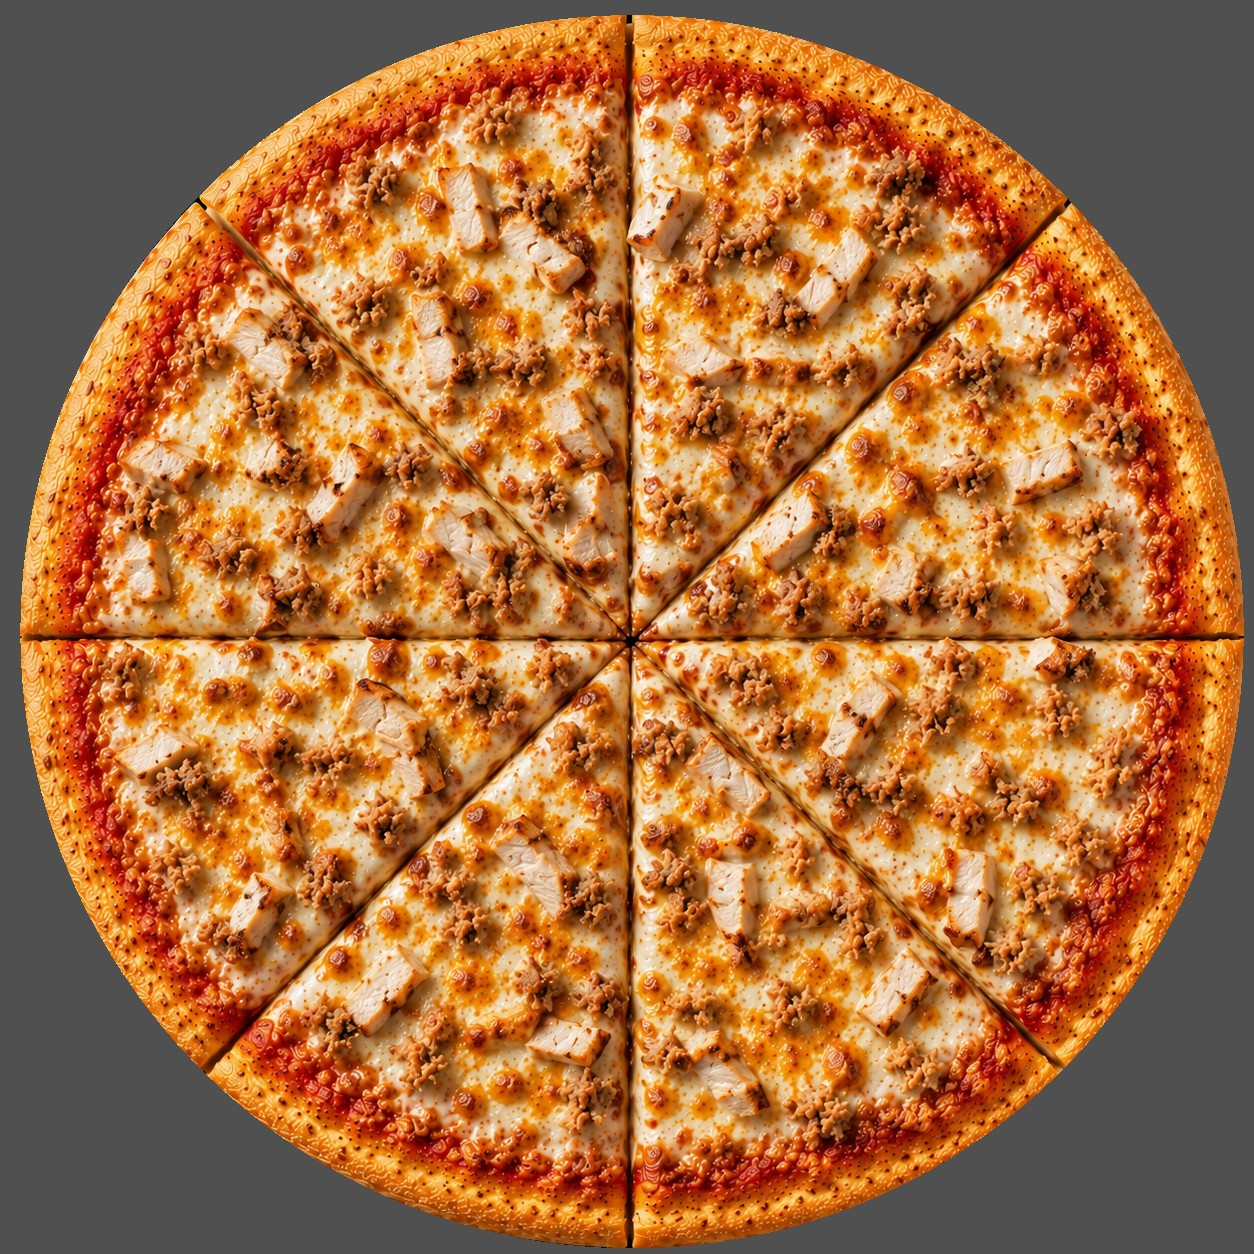
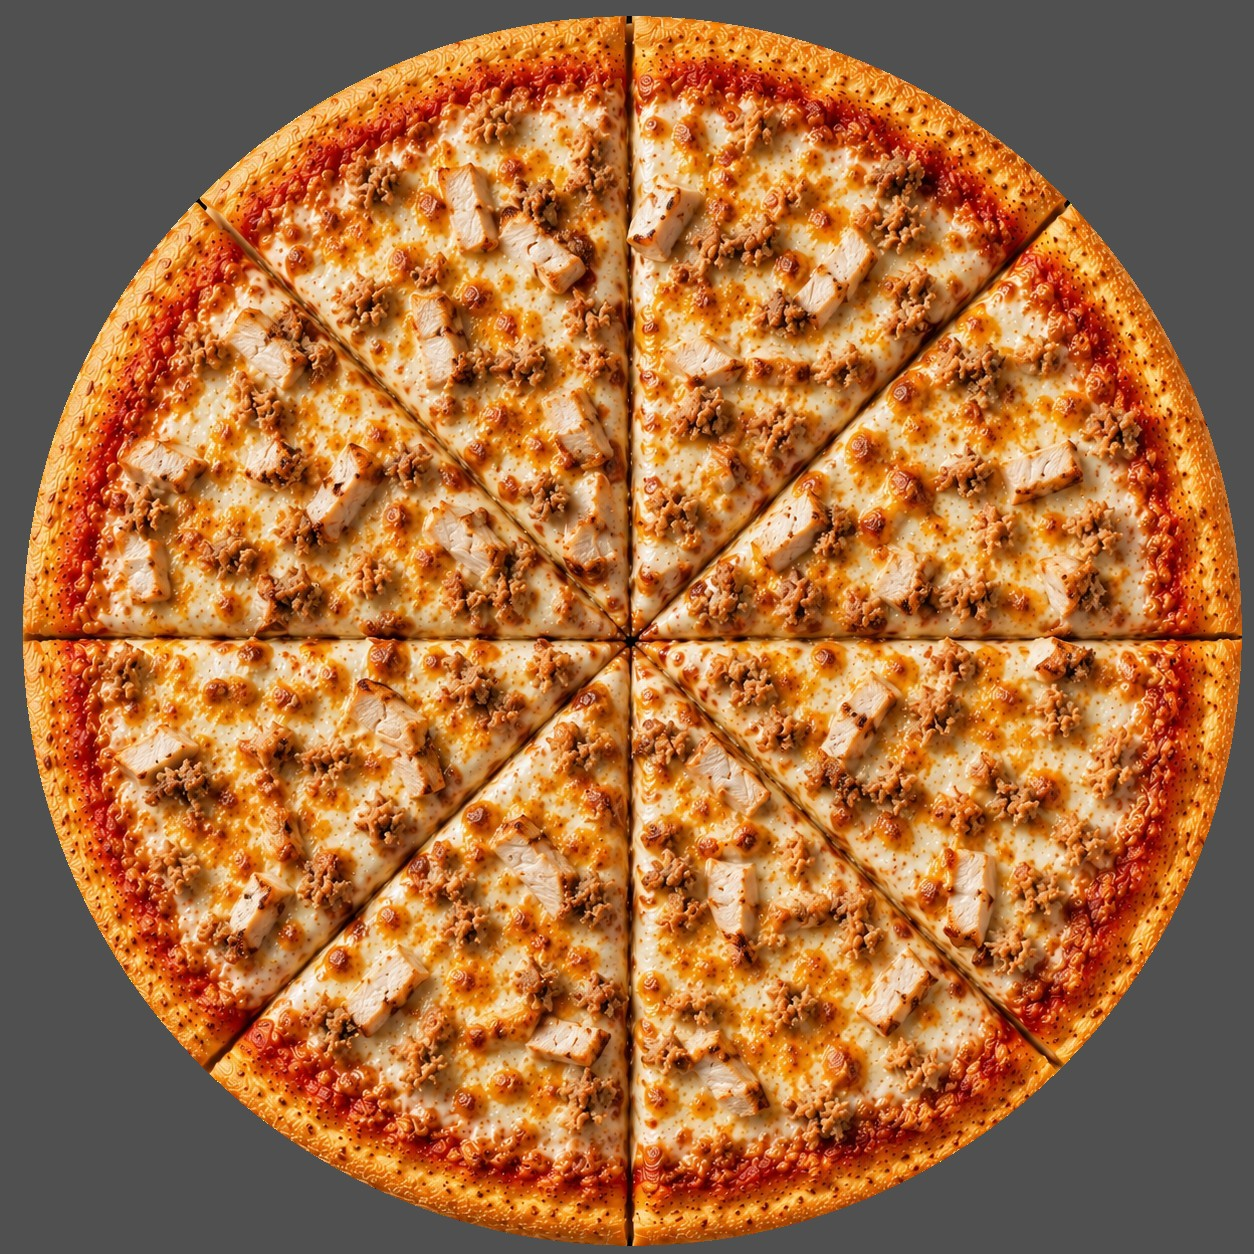
new tacos

diff --git a/index.html b/index.html
@@ -519,7 +519,7 @@
 <!-- Pizza Medium -->
       <div class="menu-item">
 <div class="menu-photo">
-<img alt="Mixte" onerror="handleImgErr(this)" src="images/mixte-medium.jpg"/>
+<img alt="Mixte" onerror="handleImgErr(this)" src="images/mixte-medium.png"/>
 <span class="menu-badge menu-badge-size menu-badge-medium" data-ar="وسط" data-fr="Medium">Medium</span>
 </div>
 <div class="menu-name" data-ar="ميكست" data-fr="Mixte">Mixte</div>
@@ -528,7 +528,7 @@
 </div>
       <div class="menu-item">
 <div class="menu-photo">
-<img alt="3 Saison" onerror="handleImgErr(this)" src="images/3-saison-medium.jpg"/>
+<img alt="3 Saison" onerror="handleImgErr(this)" src="images/3-saison-medium.png"/>
 <span class="menu-badge menu-badge-size menu-badge-medium" data-ar="وسط" data-fr="Medium">Medium</span>
 </div>
 <div class="menu-name" data-ar="3 سيزون" data-fr="3 Saison">3 Saison</div>
@@ -537,7 +537,7 @@
 </div>
       <div class="menu-item">
 <div class="menu-photo">
-<img alt="4 Saison" onerror="handleImgErr(this)" src="images/4-saison-medium.jpg"/>
+<img alt="4 Saison" onerror="handleImgErr(this)" src="images/4-saison-medium.png"/>
 <span class="menu-badge menu-badge-size menu-badge-medium" data-ar="وسط" data-fr="Medium">Medium</span>
 </div>
 <div class="menu-name" data-ar="4 سيزون" data-fr="4 Saison">4 Saison</div>
@@ -546,7 +546,7 @@
 </div>
       <div class="menu-item">
 <div class="menu-photo">
-<img alt="Special" onerror="handleImgErr(this)" src="images/special-medium.jpg"/>
+<img alt="Special" onerror="handleImgErr(this)" src="images/special-medium.png"/>
 <span class="menu-badge menu-badge-size menu-badge-medium" data-ar="وسط" data-fr="Medium">Medium</span>
 </div>
 <div class="menu-name" data-ar="سبيسيال" data-fr="Special">Special</div>
@@ -637,7 +637,7 @@
 </div>
       <div class="menu-item">
 <div class="menu-photo">
-<img alt="Viande" onerror="handleImgErr(this)" src="images/viande-l.jpg"/><span class="menu-badge menu-badge-size menu-badge-large" data-ar="كبير" data-fr="Large">Large</span>
+<img alt="Viande" onerror="handleImgErr(this)" src="images/viande-l.png"/><span class="menu-badge menu-badge-size menu-badge-large" data-ar="كبير" data-fr="Large">Large</span>
 </div>
 <div class="menu-name" data-ar="لحم" data-fr="Viande">Viande</div>
 <div class="menu-desc" data-ar="صلصة طماطم، جبن، لحم مفروم، موتزاريلا" data-fr="Sauce tomate, fromage, viande hachée, mozzarella">Sauce tomate, fromage, viande hachée, mozzarella</div>